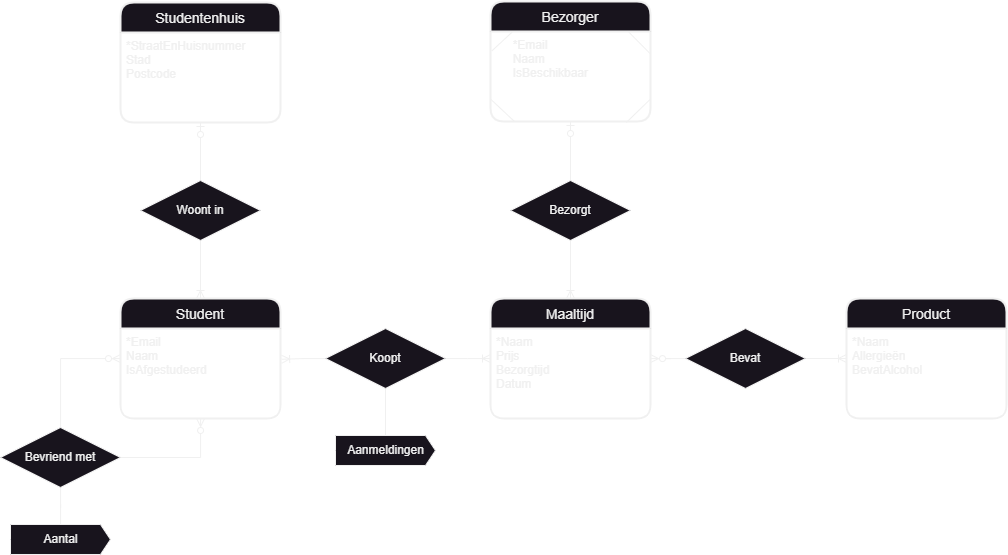
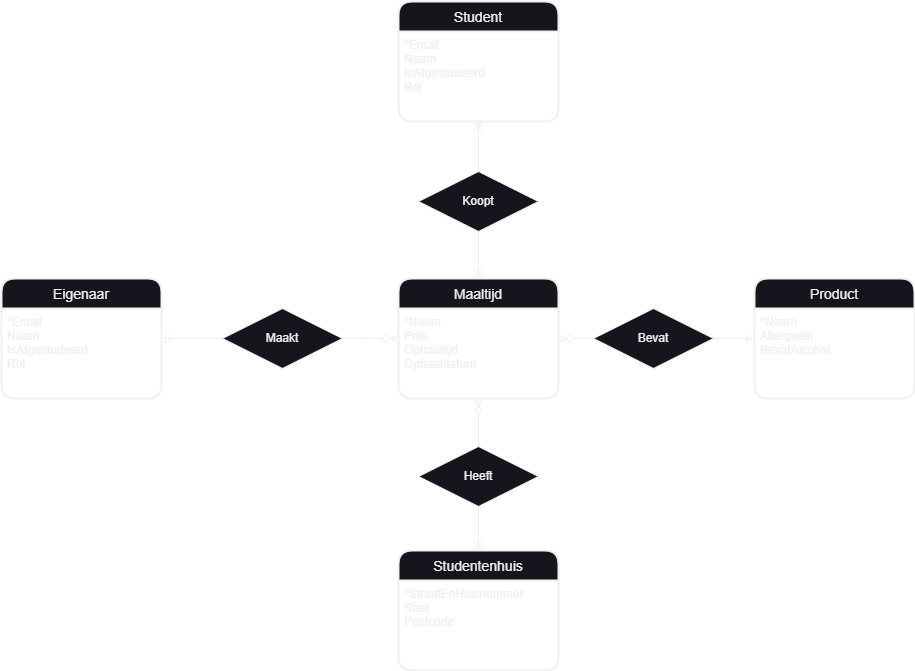
Change ERD

diff --git a/apps/meal-delivery/src/app/pages/about/about.component.html b/apps/meal-delivery/src/app/pages/about/about.component.html
@@ -2,11 +2,10 @@
   <div class="col-sm-6 col-md-8 col-lg-9">
     <h3 id="aboutTitle">Over deze applicatie</h3>
     <p>
-      Deze applicatie is gemaakt in het kader van het vak 'Clientside web
-      frameworks' van Avans Hogeschool Breda.
+      Deze applicatie is gemaakt in het kader van het vak 'Clientside web frameworks' van Avans Hogeschool Breda.
     </p>
 
-    <h1>Gouden maaltijdbezorging</h1>
+    <h1>Gouden maaltijden</h1>
     <p>
       In dit project wordt een full stack single page webapplicatie (SPA) gemaakt die een informatiesysteem biedt met
       betrekking tot een zelfgekozen domein. De applicatie biedt een SPA frontend met web-based user-interface, die
@@ -20,19 +19,17 @@
     <p>
       De applicatie is gedeployed op <span><a
           href="https://meal-delivery.netlify.app/dashboard">meal-delivery.netlify.app</a></span>,
-      en alle data in
-      het systeem is geheel online toegankelijk via de user-interface en
-      via de API. Je werkt in een CI/CD-ontwikkelstraat, en zowel je client-side frontend applicatie als de backend
-      zijn voldoende getest door middel van testcases.
+      en alle data in het systeem is geheel online toegankelijk via de user-interface en via de API. Je werkt in een
+      CI/CD-ontwikkelstraat, en zowel je client-side frontend applicatie als de backend zijn voldoende getest door
+      middel van testcases.
     </p><br>
     <p>
-      Dit is een site waar studenten uit studentenhuizen zich kunnen aanmelden voor maaltijden die dan worden bezorgd.
-      Als entiteiten heb je:
+      Dit is een site waar studenten zich kunnen aanmelden voor maaltijden uit een studentenhuis. Als entiteiten heb je:
     </p>
     <ul>
       <li>Studentenhuis</li>
       <li>Student</li>
-      <li>Bezorger</li>
+      <li>Eigenaar</li>
       <li>Maaltijd</li>
       <li>Product</li>
     </ul>
@@ -56,19 +53,20 @@
 
 <div class="move30down max-width77">
   <h3>Entiteiten</h3>
-  <p>De entiteiten zijn: Studentenhuis, Student, Bezorger, Maaltijd en Product. </p><br>
-  <p>Hoe het werkt, is dat je bijvoorbeeld kijkt (Zie afbeelding hieronder) naar Studentenhuis en Student. Je ziet dan
-    dat een student woont in een studentenhuis. Ze zijn verbonden door een pijl, de binnenste met een cirkel en een
-    streep wordt modaliteit genoemd, en de buitenste met meerdere streepjes en één streep wordt kardinaliteit genoemd.
+  <p>De entiteiten zijn: Studentenhuis, Student, Eigenaar, Maaltijd en Product. </p><br>
+  <p>Hoe het werkt, is dat je bijvoorbeeld kijkt (Zie afbeelding hieronder) naar Student en Maaltijd, je ziet dan
+    dat een student één of meerdere maaltijden kan kopen. Ze zijn verbonden door een pijl, de binnenste (tussen twee
+    entiteiten) met een cirkel of een streep wordt modaliteit genoemd, en de buitenste (tussen twee entiteiten) met
+    meerdere streepjes of één streep wordt kardinaliteit genoemd.
   </p><br>
   <p>Voor de binnenste:
     Een cirkel betekent dat het niet verplicht is. Een streepje betekent dat je tenminste één moet hebben. Dus een
-    Studenthuis heeft tenminste één Student en een Student hoeft niet persé in een studentenhuis te wonen om een
-    student te zijn.
+    Maaltijd heeft tenminste één Studentenhuis en een Studentenhuis hoeft niet persé een Maaltijd hebben om een
+    Studentenhuis te zijn.
   </p><br>
   <p>Voor de buitenste:
     Drie streepjes betekent dat het één of meer is. Één streepje betekent dat je maximaal één kan hebben. Dus een
-    Studenthuis kunt meerdere studenten hebben en een Student woont maar in één Studentenhuis.
+    Eigenaar kunt meerdere Maaltijden hebben en een Maaltijd heeft maar één Eigenaar.
   </p><br>
 
   <img src="assets/img/erd.png" class="img-fluid erd" alt="ERD" />
@@ -88,15 +86,16 @@
         <li>Email: string</li>
         <li>Naam: string</li>
         <li>IsAfgestudeerd: boolean</li>
-        <li>TelefoonNmr: string</li>
+        <li>Rol: enum</li>
       </ul>
     </div>
     <div class="col-sm-12 col-md-4">
-      <p>Bezorger</p>
+      <p>Eigenaar</p>
       <ul>
         <li>Email: string</li>
         <li>Naam: string</li>
-        <li>IsBeschikbaar: boolean</li>
+        <li>IsAfgestudeerd: boolean</li>
+        <li>Rol: enum</li>
       </ul>
     </div>
   </div>
@@ -107,7 +106,7 @@
       <ul>
         <li>Naam: string</li>
         <li>Prijs: number</li>
-        <li>Bezorgtijd: date</li>
+        <li>Ophaaltijd: date</li>
         <li>Datum: date</li>
       </ul>
     </div>
@@ -162,13 +161,6 @@
             <td>Overzicht is een grid.</td>
           </tr>
           <tr>
-            <td>5</td>
-            <td>
-              Als bezorger wil ik zien welke maaltijden ik moet bezorgen.
-            </td>
-            <td>Overzicht is een grid.</td>
-          </tr>
-          <tr>
             <td>6</td>
             <td>
               Als eigenaar wil ik een maaltijd kunnen aanmaken.
@@ -192,7 +184,7 @@
           <tr>
             <td>9</td>
             <td>
-              Als eigenaar wil ik een maaltijd kunnen toewijzen aan een bezorger.
+              Als beheerder wil ik overal bij kunnen.
             </td>
             <td>Overzicht is een grid.</td>
           </tr>

diff --git a/apps/meal-delivery/src/app/pages/meal/edit/edit.component.html b/apps/meal-delivery/src/app/pages/meal/edit/edit.component.html
@@ -54,7 +54,7 @@
         <!-- deliverytime -->
         <div class="row-5">
           <div class="form-group">
-            <label for="deliverytime">Bezorgtijd</label>
+            <label for="deliverytime">Ophaaltijd</label>
             <div *ngIf="meal?.deliveryTime">
               <input type="time" id="deliverytime" name="deliverytime" class="form-control"
                 [ngModel]="meal!.deliveryTime | date:'shortTime'" #deliveryTime="ngModel"
@@ -62,7 +62,7 @@
                 [ngClass]="{'is-invalid': deliveryTime.invalid && deliveryTime.touched}" />
               <div *ngIf="deliveryTime.invalid && deliveryTime.touched" class="invalid-feedback">
                 <div *ngIf="deliveryTime.errors!['required']">
-                  Bezorgtijd is verplicht
+                  Ophaaltijd is verplicht
                 </div>
               </div>
             </div>
@@ -72,7 +72,7 @@
         <!-- deliverydate -->
         <div class="row-5">
           <div class="form-group">
-            <label for="deliverydate">Bezorgdatum</label>
+            <label for="deliverydate">Ophaaldatum</label>
             <div *ngIf="meal?.deliveryDate">
               <input type="date" id="deliverydate" name="deliverydate" class="form-control"
                 [ngModel]="meal!.deliveryDate | date:'yyyy-MM-dd'" (ngModelChange)="meal!.deliveryDate = $event" />

diff --git a/apps/meal-delivery/src/app/pages/meal/detail/detail.component.html b/apps/meal-delivery/src/app/pages/meal/detail/detail.component.html
@@ -9,10 +9,10 @@
     <ul>
       <li>Eigenaar: {{meal?.owner.username}}</li>
       <li>Prijs: € {{toDecimal(meal?.price)}}</li>
-      <li *ngIf="meal?.deliveryTime">Bezorgtijd: {{meal?.deliveryTime | date:"HH:mm"}}</li>
-      <li *ngIf="!meal?.deliveryTime">Bezorgtijd: maaltijd nog niet gereserveerd.</li>
-      <li *ngIf="meal?.deliveryDate">Bezorgdatum: {{meal?.deliveryDate | date: "dd-MM-YYYY"}}</li>
-      <li *ngIf="!meal?.deliveryDate">Bezorgdatum: maaltijd nog niet gereserveerd.</li>
+      <li *ngIf="meal?.deliveryTime">Ophaaltijd: {{meal?.deliveryTime | date:"HH:mm"}}</li>
+      <li *ngIf="!meal?.deliveryTime">Ophaaltijd: maaltijd nog niet gereserveerd.</li>
+      <li *ngIf="meal?.deliveryDate">Ophaaldatum: {{meal?.deliveryDate | date: "dd-MM-YYYY"}}</li>
+      <li *ngIf="!meal?.deliveryDate">Ophaaldatum: maaltijd nog niet gereserveerd.</li>
     </ul>
   </div>
 </div>

diff --git a/apps/meal-delivery/src/app/shared/footer/footer.component.html b/apps/meal-delivery/src/app/shared/footer/footer.component.html
@@ -4,11 +4,11 @@
       <div class="row mt-2">
         <div class="col-md-6 col-lg-4 col-xl-5  mb-3">
           <h6 class="text-uppercase fw-bold mb-2">
-            <i class="fas fa-gem me-3"></i>Gouden maaltijdbezorging
+            <i class="fas fa-gem me-3"></i>Gouden maaltijden
           </h6>
           <p>
             Dit project is gemaakt voor het vak Client-side web programming voor de school van Avans. Je kunt hier
-            maaltijden reserveren als je in een studentenhuis woont en die maaltijd wordt dan bezorgd.
+            maaltijden reserveren uit een studentenhuis en als chef of beheerder een maaltijd toevoegen.
           </p>
         </div>
         <div class="col-md-2 col-lg-2 col-xl-1 mx-auto mb-3">

diff --git a/apps/meal-delivery-api/src/app/user/user.schema.ts b/apps/meal-delivery-api/src/app/user/user.schema.ts
@@ -3,10 +3,6 @@ import { UserRole } from '@md/data';
 import { HydratedDocument } from 'mongoose';
 import { v4 as uuid } from 'uuid';
 import { Meal } from '../meal/meal.schema';
-import {
-  StudentHouse,
-  StudentHouseSchema,
-} from '../studentHouse/studentHouse.schema';
 
 export type UserDocument = HydratedDocument<User>;
 
@@ -19,14 +15,8 @@ export class User {
   @Prop({ type: String, enum: UserRole, default: UserRole.STUDENT })
   role: string;
 
-  @Prop({ type: StudentHouseSchema })
-  studentHouse: StudentHouse;
-
   @Prop({ type: [], default: [] })
   meals: Meal[];
-
-  @Prop({ type: [], default: [] })
-  friends: User[];
 }
 
 export const UserSchema = SchemaFactory.createForClass(User);

diff --git a/apps/meal-delivery/src/app/pages/meal/orderlist/orderlist.component.html b/apps/meal-delivery/src/app/pages/meal/orderlist/orderlist.component.html
@@ -16,8 +16,8 @@
                 <h5 class="card-title">{{meal.name}}</h5>
                 <ul class="noBullets">
                   <li>Eigenaar: {{meal.owner.username}}</li>
-                  <li>Bezorgtijd: {{meal?.deliveryTime | date:"HH:mm"}}</li>
-                  <li>Bezorgdatum: {{meal?.deliveryDate | date: "dd-MM-YYYY"}}</li>
+                  <li>Ophaaltijd: {{meal?.deliveryTime | date:"HH:mm"}}</li>
+                  <li>Ophaaldatum: {{meal?.deliveryDate | date: "dd-MM-YYYY"}}</li>
                   <li> <a [routerLink]="['/meal', meal.id]" routerLinkActive="active" ariaCurrentWhenActive="page">Klik
                       hier voor meer details.</a></li>
                 </ul>

diff --git a/apps/meal-delivery/src/app/pages/meal/list/list.component.html b/apps/meal-delivery/src/app/pages/meal/list/list.component.html
@@ -19,8 +19,8 @@
                 <h5 class="card-title">{{meal.name}}</h5>
                 <ul class="noBullets">
                   <li>Eigenaar: {{meal.owner.username}}</li>
-                  <li>Bezorgtijd: {{meal?.deliveryTime | date:"HH:mm"}}</li>
-                  <li>Bezorgdatum: {{meal?.deliveryDate | date: "dd-MM-YYYY"}}</li>
+                  <li>Ophaaltijd: {{meal?.deliveryTime | date:"HH:mm"}}</li>
+                  <li>Ophaaldatum: {{meal?.deliveryDate | date: "dd-MM-YYYY"}}</li>
                   <li> <a routerLink="{{ meal.id }}" routerLinkActive="active" ariaCurrentWhenActive="page">Klik hier
                       voor meer details.</a></li>
                 </ul>

diff --git a/apps/meal-delivery-e2e/src/e2e/app.cy.ts b/apps/meal-delivery-e2e/src/e2e/app.cy.ts
@@ -8,6 +8,6 @@ describe('meal-delivery', () => {
     cy.login('my-email@something.com', 'myPassword');
 
     // Function helper example, see `../support/app.po.ts` file
-    getGreeting().contains('Welkom bij Gouden maaltijdbezorging');
+    getGreeting().contains('Welkom bij Gouden maaltijden');
   });
 });

diff --git a/apps/meal-delivery/src/app/pages/dashboard/dashboard.component.html b/apps/meal-delivery/src/app/pages/dashboard/dashboard.component.html
@@ -1,6 +1,6 @@
 <div class="dashboard">
   <div class="card highlight-card card-small">
-    <h3>Welkom bij Gouden maaltijdbezorging</h3>
+    <h3>Welkom bij Gouden maaltijden</h3>
   </div>
   <div class="card-container">
     <a class="card" routerLink="/meal">

diff --git a/apps/meal-delivery-api/src/app/meal/meal.schema.ts b/apps/meal-delivery-api/src/app/meal/meal.schema.ts
@@ -26,9 +26,6 @@ export class Meal {
 
   @Prop({ type: [], default: [] })
   products: Product[];
-
-  @Prop({ type: [], default: [] })
-  students: User[];
 }
 
 export const MealSchema = SchemaFactory.createForClass(Meal);
